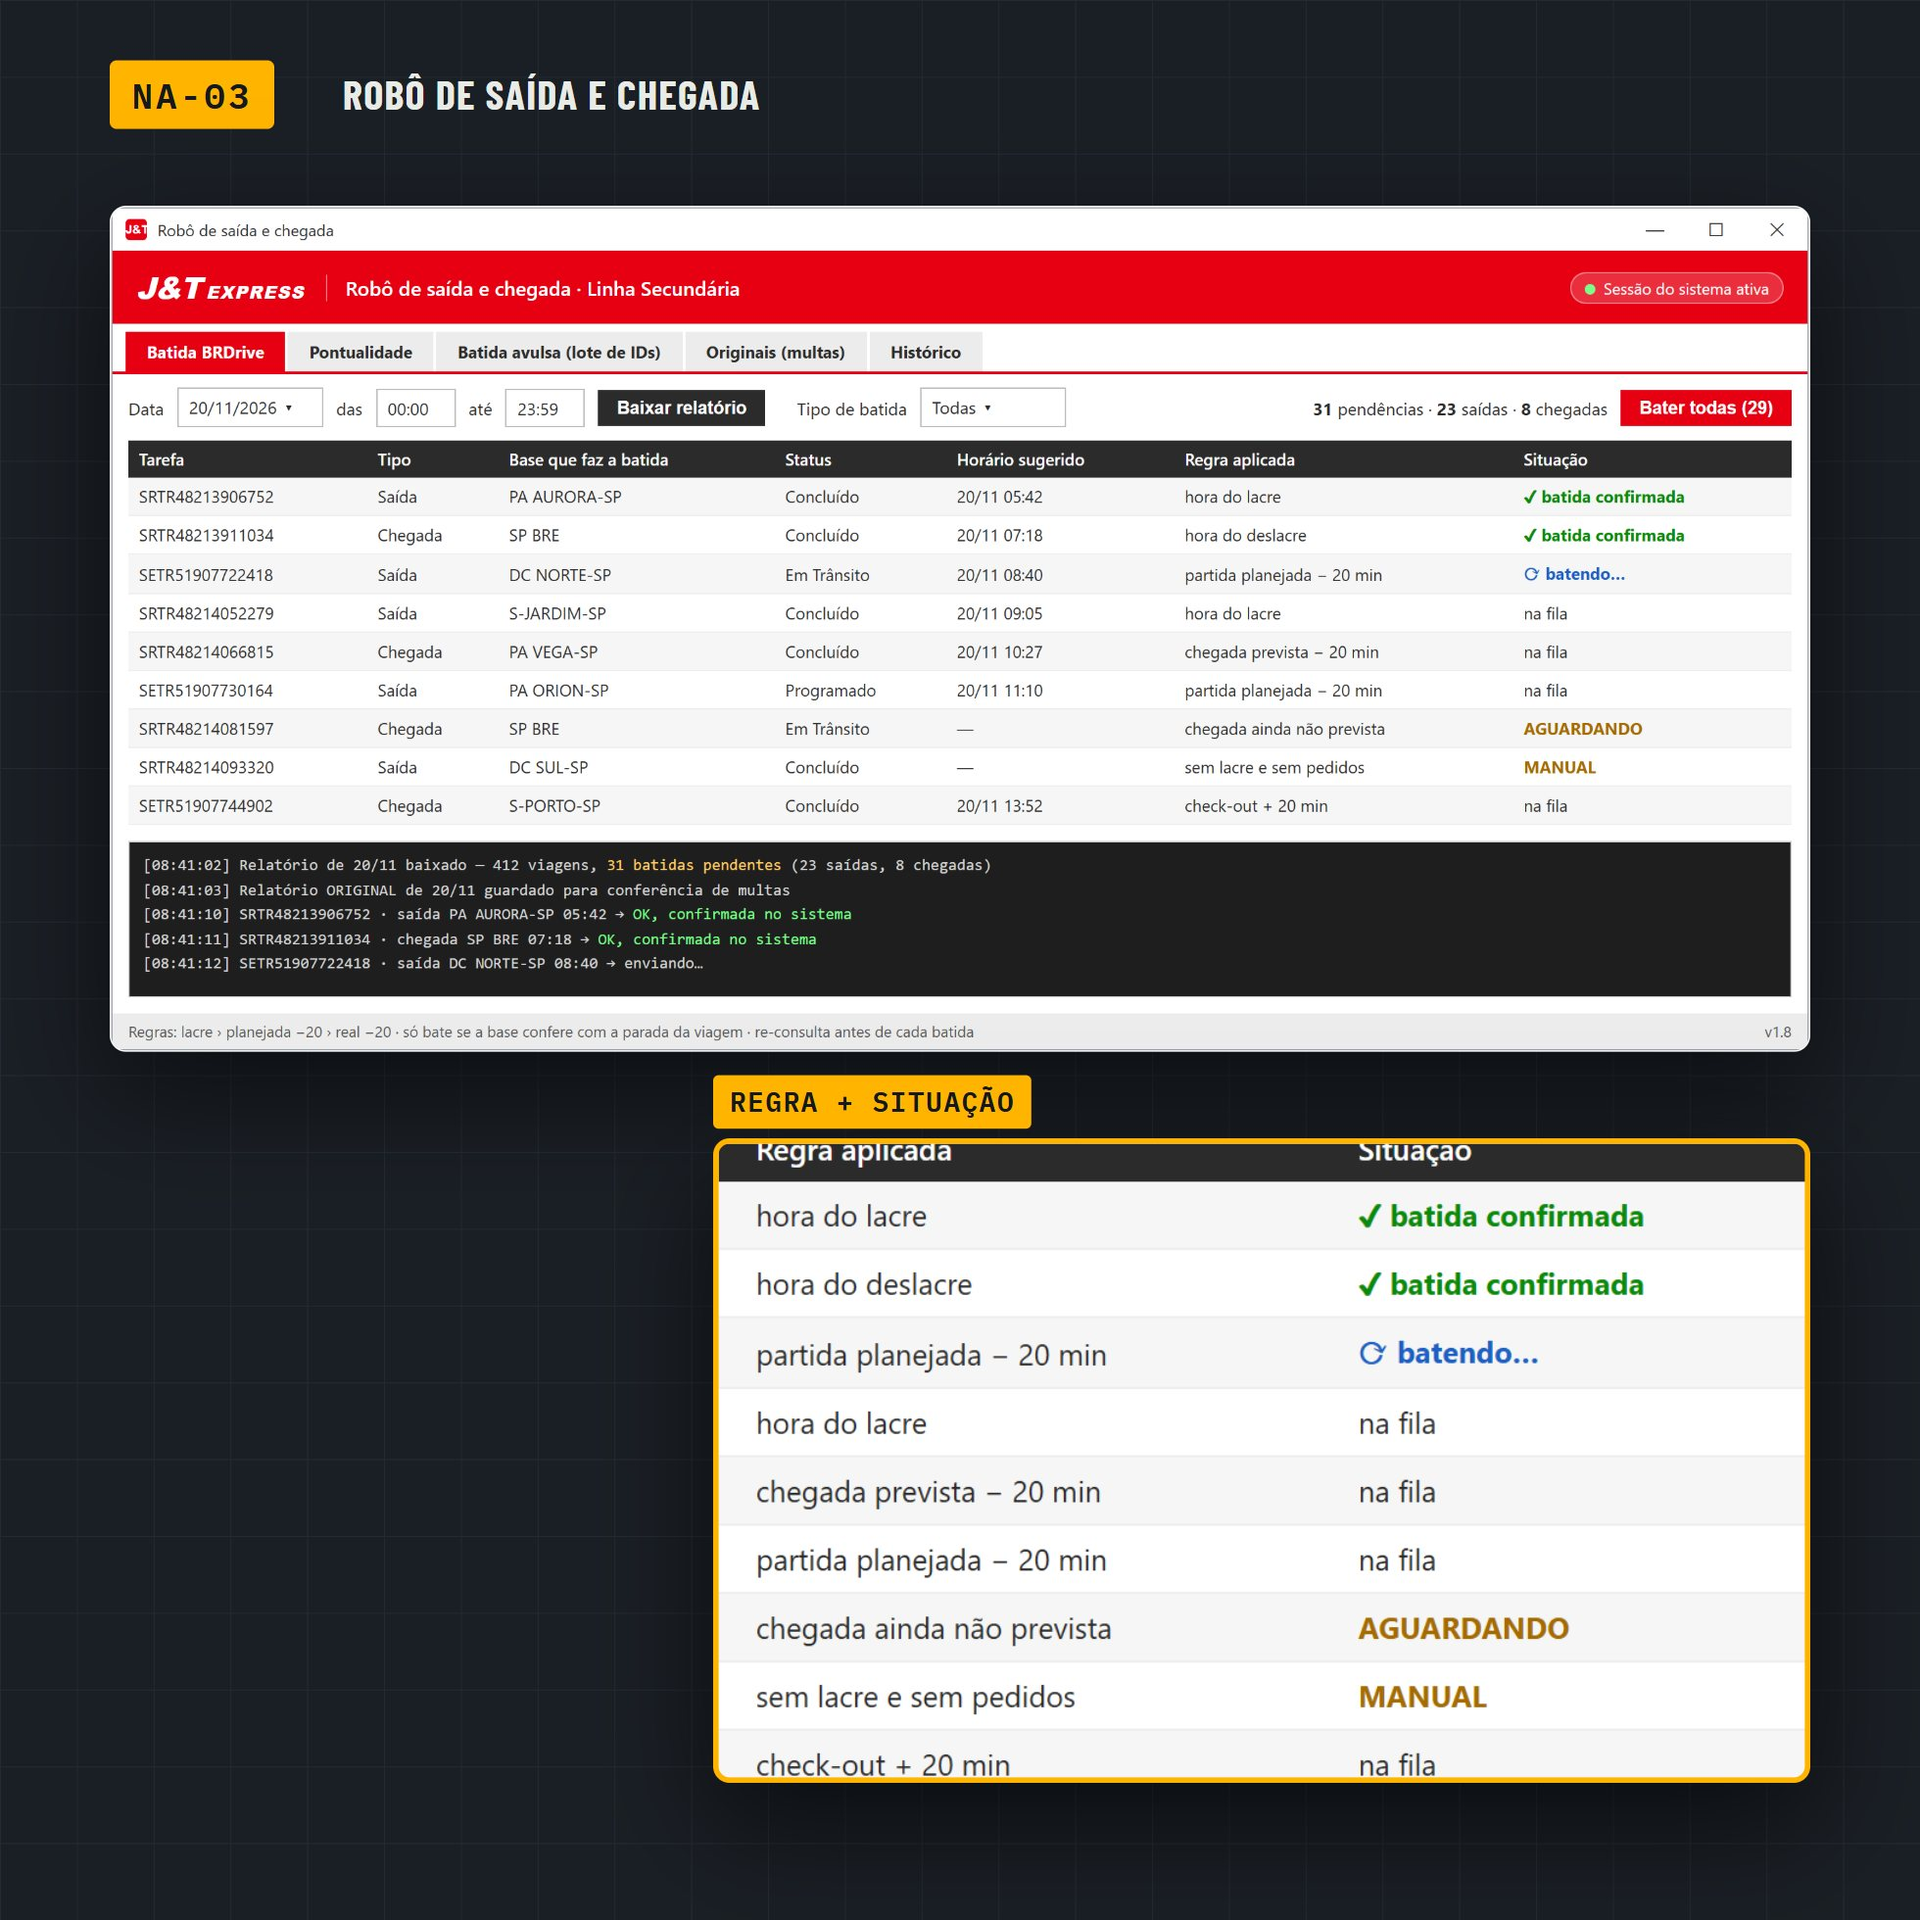
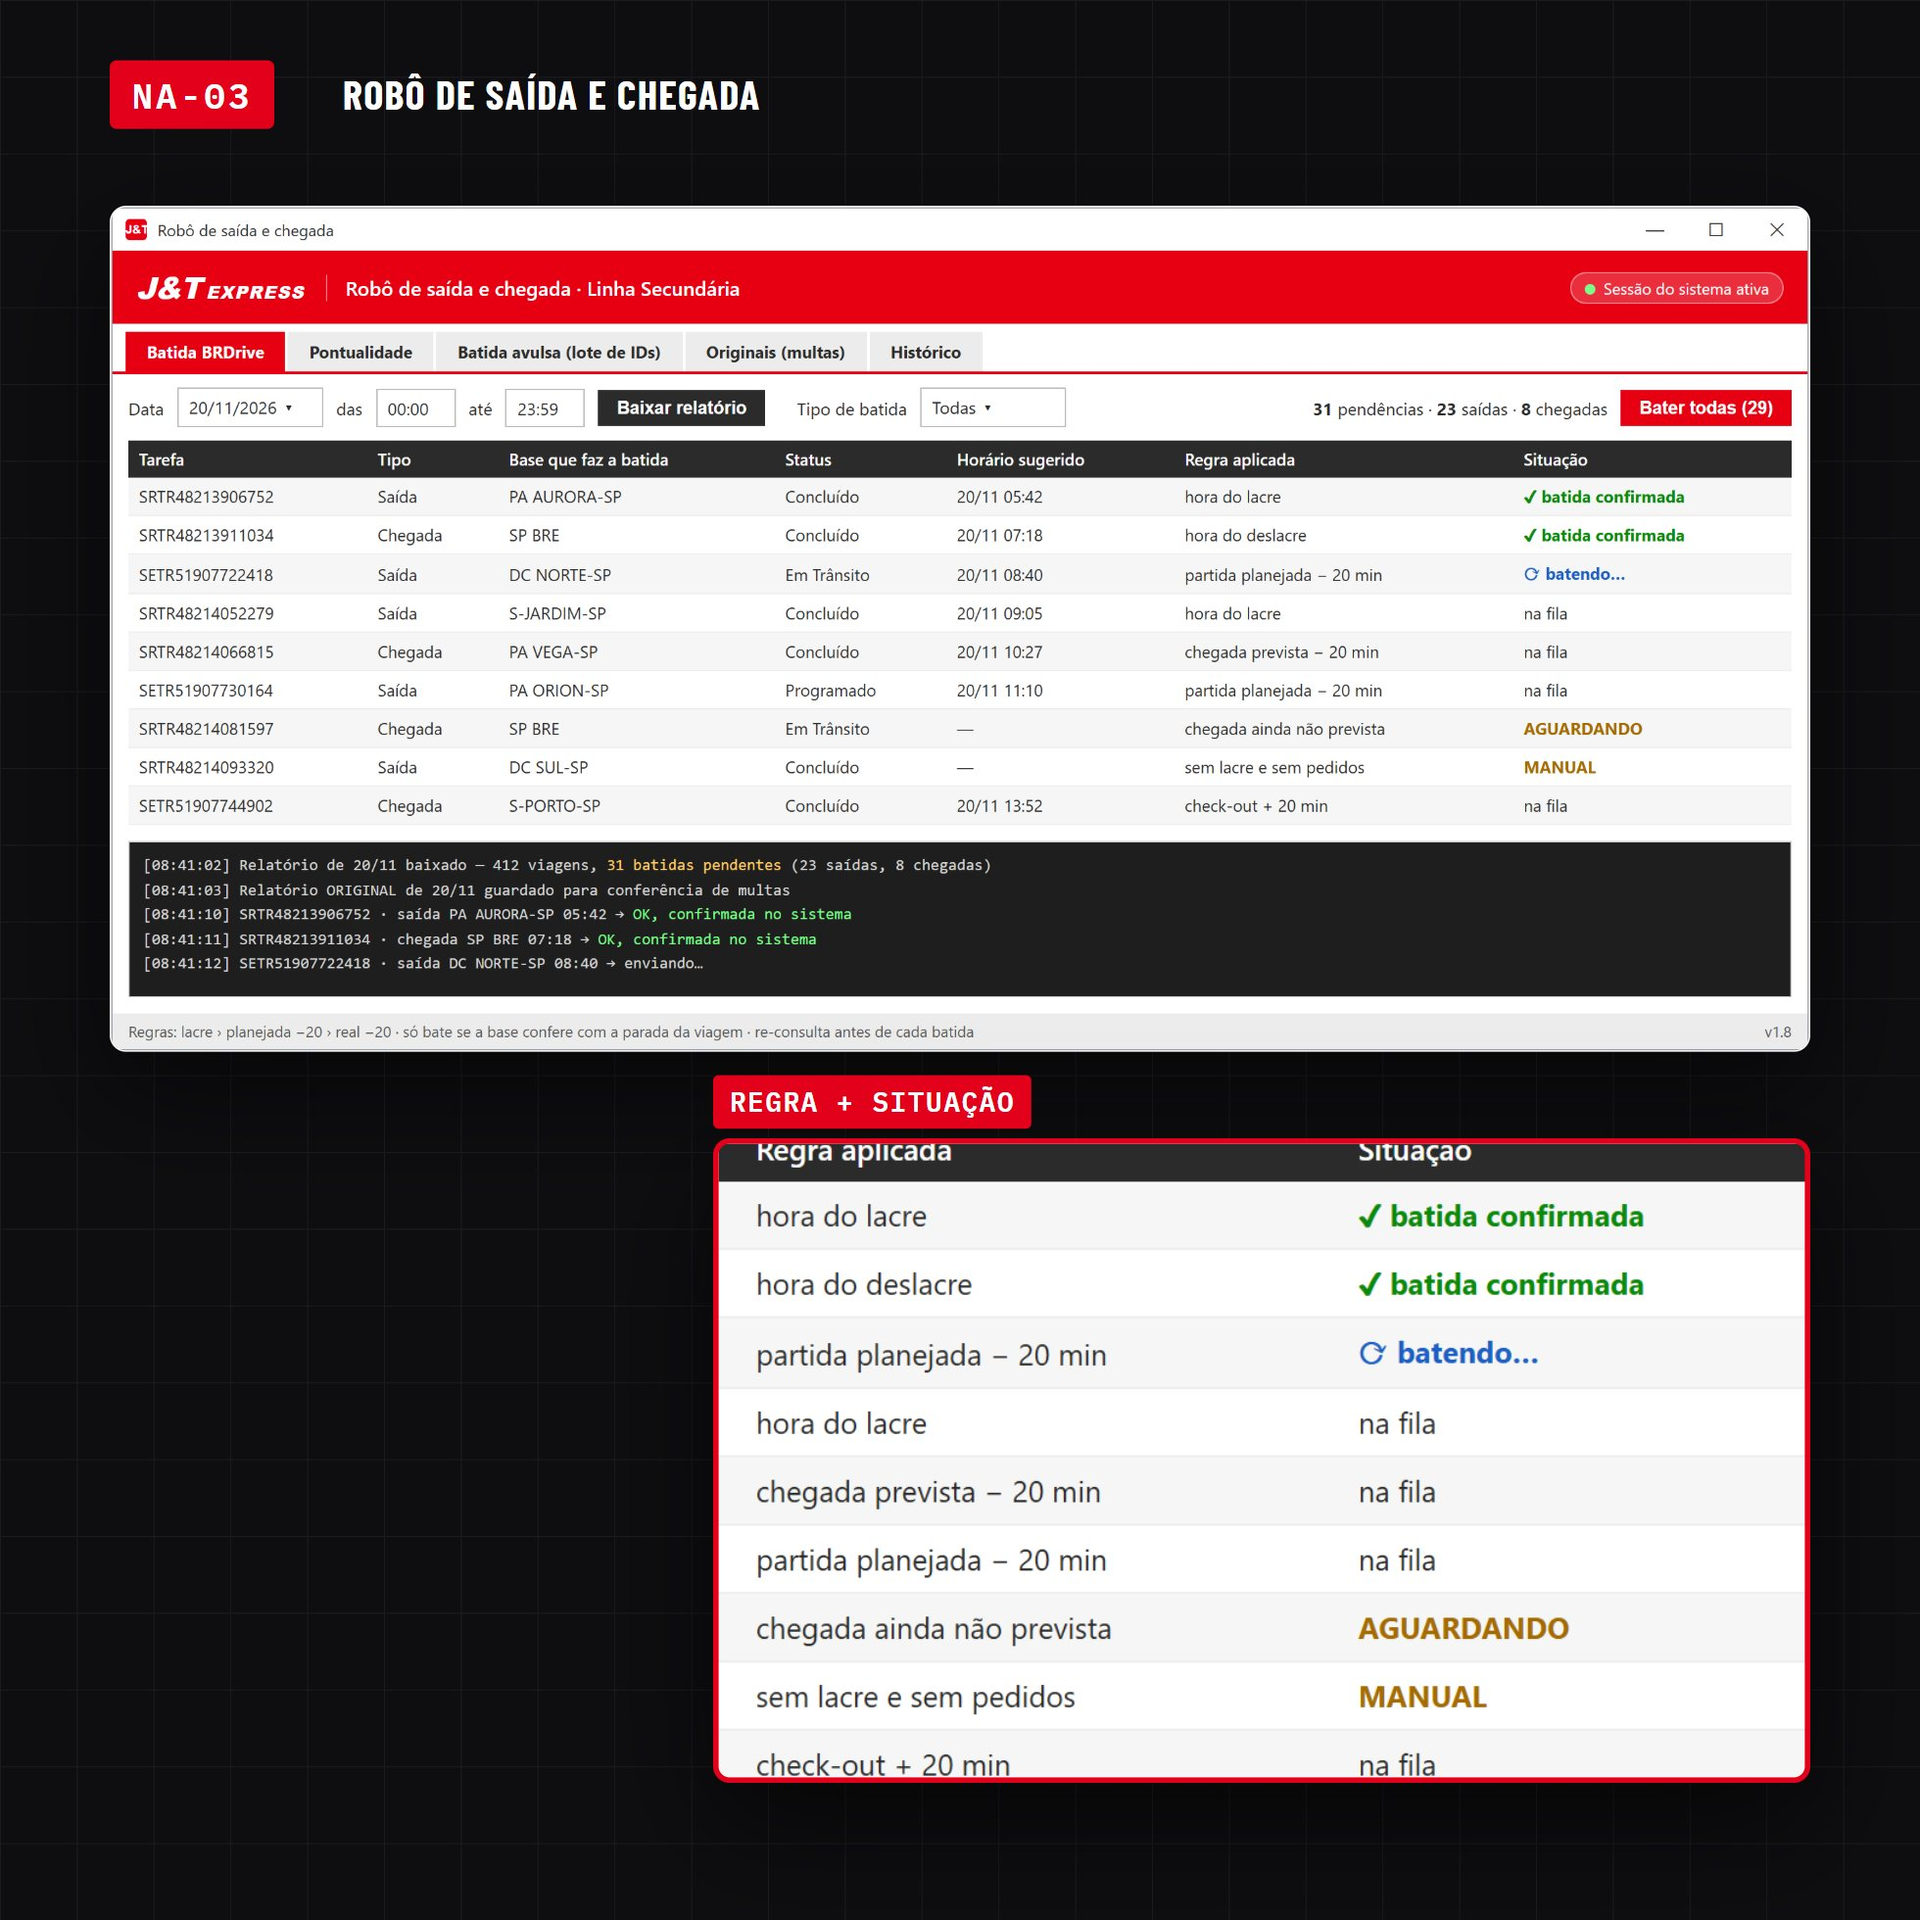
Cores vermelho, preto e branco; botão de tema claro/escuro

Changed region(s): [[0.3735, 0.5602, 0.9648, 0.9337], [0.1867, 0.0311, 0.4046, 0.0622], [0.0311, 0.0311, 0.1556, 0.0934]]

diff --git a/index.html b/index.html
@@ -6,21 +6,24 @@
 <style>body{margin:0}img{max-width:100%}[hidden]{display:none!important}:root{padding-top:env(safe-area-inset-top,0px);padding-bottom:env(safe-area-inset-bottom,0px)}</style>
 <title>Nathan Alves</title>
 <link rel="icon" type="image/png" href="img/foto.png">
+<script>try{var t=localStorage.getItem("tema");if(t==="dark"||t==="light")document.documentElement.setAttribute("data-theme",t)}catch(e){}</script>
 <meta name="description" content="Nathan Alves — automação, dados e sistemas para a operação de transporte.">
 <link rel="preconnect" href="https://fonts.googleapis.com">
 <link rel="preconnect" href="https://fonts.gstatic.com" crossorigin>
 <link rel="stylesheet" href="https://fonts.googleapis.com/css2?family=Barlow+Condensed:wght@600;700;800&family=IBM+Plex+Sans:wght@400;500;600&family=IBM+Plex+Mono:wght@400;500;600&display=swap">
 <style>
 /* Layout: rota "Planilha → Sistema" no topo; projetos como etiquetas de carga (waybill) em coluna larga */
+/* Paleta: vermelho, preto e branco · tema claro e escuro (botão no topo ou tema do aparelho) */
 :root{
-  --papel:#F3F4F1;        /* fundo: papel de manifesto, levemente frio */
-  --folha:#FFFFFF;        /* superfície das etiquetas */
-  --tinta:#15191E;        /* texto principal (asfalto) */
-  --tinta-2:#4B525B;      /* texto secundário */
-  --linha:#D5D8D2;        /* fios e bordas */
-  --sinal:#FFB400;        /* amarelo alta visibilidade (destaque) */
-  --sinal-tinta:#15191E;  /* texto sobre o amarelo */
-  --link:#1D4ED8;
+  --papel:#F5F5F5;        /* fundo */
+  --folha:#FFFFFF;        /* superfícies */
+  --tinta:#0B0B0C;        /* texto principal (preto) */
+  --tinta-2:#4A4A50;      /* texto secundário */
+  --linha:#DCDCDF;        /* fios e bordas */
+  --sinal:#D7001F;        /* vermelho (destaque) */
+  --sinal-tinta:#FFFFFF;  /* texto sobre o vermelho */
+  --link:#C2001B;
+  --painel:#0E0E10;       /* fundo das imagens dos projetos */
   --f-display:"Barlow Condensed","Arial Narrow",Arial,sans-serif;
   --f-texto:"IBM Plex Sans","Segoe UI",system-ui,sans-serif;
   --f-mono:"IBM Plex Mono",Consolas,"Courier New",monospace;
@@ -28,14 +31,15 @@
 }
 @media (prefers-color-scheme: dark){
   :root:not([data-theme="light"]){
-    --papel:#0F1215; --folha:#171B20; --tinta:#E9EBE6; --tinta-2:#A7ADB4; --linha:#2B3138;
-    --sinal:#FFB400; --sinal-tinta:#15191E; --link:#7EA6FF; color-scheme:dark;
+    --papel:#0B0B0C; --folha:#151517; --tinta:#F5F5F5; --tinta-2:#A8A8AE; --linha:#2A2A2F;
+    --sinal:#E8192C; --sinal-tinta:#FFFFFF; --link:#FF6B78; color-scheme:dark;
   }
 }
 :root[data-theme="dark"]{
-  --papel:#0F1215; --folha:#171B20; --tinta:#E9EBE6; --tinta-2:#A7ADB4; --linha:#2B3138;
-  --sinal:#FFB400; --sinal-tinta:#15191E; --link:#7EA6FF; color-scheme:dark;
+  --papel:#0B0B0C; --folha:#151517; --tinta:#F5F5F5; --tinta-2:#A8A8AE; --linha:#2A2A2F;
+  --sinal:#E8192C; --sinal-tinta:#FFFFFF; --link:#FF6B78; color-scheme:dark;
 }
+:root[data-theme="light"]{color-scheme:light}
 *{box-sizing:border-box}
 html{scroll-behavior:smooth}
 @media (prefers-reduced-motion: reduce){html{scroll-behavior:auto}*{animation:none!important;transition:none!important}}
@@ -58,6 +62,15 @@ header.nav .wrap{display:flex;align-items:center;gap:20px;min-height:60px;flex-w
 nav.menu{display:flex;gap:18px;margin-left:auto;flex-wrap:wrap}
 nav.menu a{color:var(--tinta-2);text-decoration:none;font-weight:500;font-size:15px}
 nav.menu a:hover{color:var(--tinta)}
+nav.menu{align-items:center}
+.tema{all:unset;cursor:pointer;width:36px;height:36px;border-radius:50%;display:grid;place-items:center;border:1.5px solid var(--linha);color:var(--tinta)}
+.tema:hover{border-color:var(--sinal);color:var(--sinal)}
+.tema:focus-visible{outline:3px solid var(--sinal);outline-offset:2px}
+.tema svg{width:18px;height:18px}
+.tema .lua{display:none}
+:root[data-theme="dark"] .tema .sol{display:none}
+:root[data-theme="dark"] .tema .lua{display:block}
+@media (prefers-color-scheme: dark){:root:not([data-theme="light"]) .tema .sol{display:none}:root:not([data-theme="light"]) .tema .lua{display:block}}
 
 /* ---------- abertura ---------- */
 .abertura{padding-block:64px 40px;display:grid;gap:36px}
@@ -66,7 +79,7 @@ nav.menu a:hover{color:var(--tinta)}
 .abertura p.lead{font-size:clamp(18px,2.2vw,21px);color:var(--tinta-2);max-width:62ch;margin:0}
 .acoes{display:flex;gap:12px;flex-wrap:wrap}
 .btn{display:inline-flex;align-items:center;gap:8px;padding:12px 20px;border-radius:var(--raio);font:600 15.5px var(--f-texto);text-decoration:none;border:1.5px solid var(--tinta);color:var(--tinta);background:transparent;cursor:pointer}
-.btn.pri{background:var(--tinta);color:var(--papel)}
+.btn.pri{background:var(--sinal);border-color:var(--sinal);color:var(--sinal-tinta)}
 .btn:hover{transform:translateY(-1px)}
 
 
@@ -134,9 +147,9 @@ section.bloco{padding-block:56px}
 .carga{background:var(--folha);border:1px solid var(--linha);border-radius:var(--raio);display:grid;grid-template-columns:minmax(0,1.25fr) minmax(0,1fr);overflow:hidden;margin-bottom:28px;scroll-margin-top:80px}
 .carga:nth-of-type(even){grid-template-columns:minmax(0,1fr) minmax(0,1.25fr)}
 .carga:nth-of-type(even) .fotos{order:2}
-.fotos{background:#1A1F25;border-right:1px solid var(--linha);padding:0;display:flex}
+.fotos{background:var(--painel);border-right:1px solid var(--linha);padding:0;display:flex}
 .carga:nth-of-type(even) .fotos{border-right:0;border-left:1px solid var(--linha)}
-.fotos button{all:unset;cursor:zoom-in;display:block;flex:1;overflow:hidden;background:#1A1F25}
+.fotos button{all:unset;cursor:zoom-in;display:block;flex:1;overflow:hidden;background:var(--painel)}
 .fotos button:focus-visible{outline:3px solid var(--sinal);outline-offset:2px}
 .fotos img{display:block;width:100%;height:100%;min-height:100%;aspect-ratio:1/1;object-fit:cover;transition:transform .4s ease}
 .fotos button:hover img{transform:scale(1.02)}
@@ -171,15 +184,15 @@ section.bloco{padding-block:56px}
 .pilha p{margin:0;font:14px/1.9 var(--f-mono);color:var(--tinta-2)}
 
 /* contato */
-.contato{background:var(--tinta);color:var(--papel);border-radius:var(--raio);padding:36px;display:grid;grid-template-columns:minmax(0,1.2fr) minmax(0,1fr);gap:28px;align-items:center}
+.contato{background:var(--sinal);color:var(--sinal-tinta);border-radius:var(--raio);padding:36px;display:grid;grid-template-columns:minmax(0,1.2fr) minmax(0,1fr);gap:28px;align-items:center}
 .contato h2{font-size:clamp(36px,5vw,58px);font-weight:800;text-transform:uppercase}
 .contato p{margin:10px 0 0;opacity:.85}
 .canais{display:grid;gap:10px}
-.canal{display:flex;justify-content:space-between;align-items:center;gap:12px;padding:12px 14px;border:1px solid color-mix(in srgb,var(--papel) 30%,transparent);border-radius:4px;color:var(--papel);text-decoration:none;font-family:var(--f-mono);font-size:14px;min-width:0}
+.canal{display:flex;justify-content:space-between;align-items:center;gap:12px;padding:12px 14px;border:1px solid rgba(255,255,255,.45);border-radius:4px;color:#FFFFFF;text-decoration:none;font-family:var(--f-mono);font-size:14px;min-width:0}
 .canal b{font-family:var(--f-texto);font-weight:600}
 .canal span{overflow:hidden;text-overflow:ellipsis;white-space:nowrap}
 .canal.vazio{border-style:dashed;opacity:.7}
-a.canal:hover{background:color-mix(in srgb,var(--papel) 10%,transparent)}
+a.canal:hover{background:rgba(0,0,0,.14)}
 footer{padding-block:28px 40px;color:var(--tinta-2);font-size:13.5px;display:flex;justify-content:space-between;gap:12px;flex-wrap:wrap}
 
 
@@ -226,6 +239,7 @@ dialog p{color:#e9ebe6;font:13px var(--f-mono);margin:8px 2px 0}
   <a class="marca" href="#topo"><img src="img/foto.png" alt="Foto de Nathan Alves" width="40" height="40"><b>NATHAN ALVES</b></a>
   <nav class="menu" aria-label="Seções">
     <a href="#projetos">Projetos</a><a href="#trajetoria">Trajetória</a><a href="#como">Como eu trabalho</a><a href="#stack">Stack</a><a href="#contato">Contato</a>
+    <button class="tema" id="tema" type="button" aria-label="Alternar tema claro/escuro" title="Tema claro/escuro"><svg class="sol" viewBox="0 0 24 24" fill="none" stroke="currentColor" stroke-width="2" stroke-linecap="round"><circle cx="12" cy="12" r="4.5"/><path d="M12 2v2M12 20v2M4.9 4.9l1.4 1.4M17.7 17.7l1.4 1.4M2 12h2M20 12h2M4.9 19.1l1.4-1.4M17.7 6.3l1.4-1.4"/></svg><svg class="lua" viewBox="0 0 24 24" fill="none" stroke="currentColor" stroke-width="2" stroke-linejoin="round"><path d="M20.5 14.5A8.5 8.5 0 1 1 9.5 3.5a7 7 0 0 0 11 11z"/></svg></button>
   </nav>
 </div></header>
 
@@ -419,6 +433,12 @@ dialog p{color:#e9ebe6;font:13px var(--f-mono);margin:8px 2px 0}
     if (dlg.showModal) dlg.showModal(); else dlg.setAttribute("open", "");
   }));
   document.getElementById("fechar").addEventListener("click", () => dlg.close());
+  document.getElementById("tema").addEventListener("click", () => {
+    const r = document.documentElement;
+    const escuro = r.dataset.theme ? r.dataset.theme === "dark" : matchMedia("(prefers-color-scheme: dark)").matches;
+    r.dataset.theme = escuro ? "light" : "dark";
+    try { localStorage.setItem("tema", r.dataset.theme); } catch (e) {}
+  });
   dlg.addEventListener("click", e => { if (e.target === dlg) dlg.close(); });
 })();
 </script>
